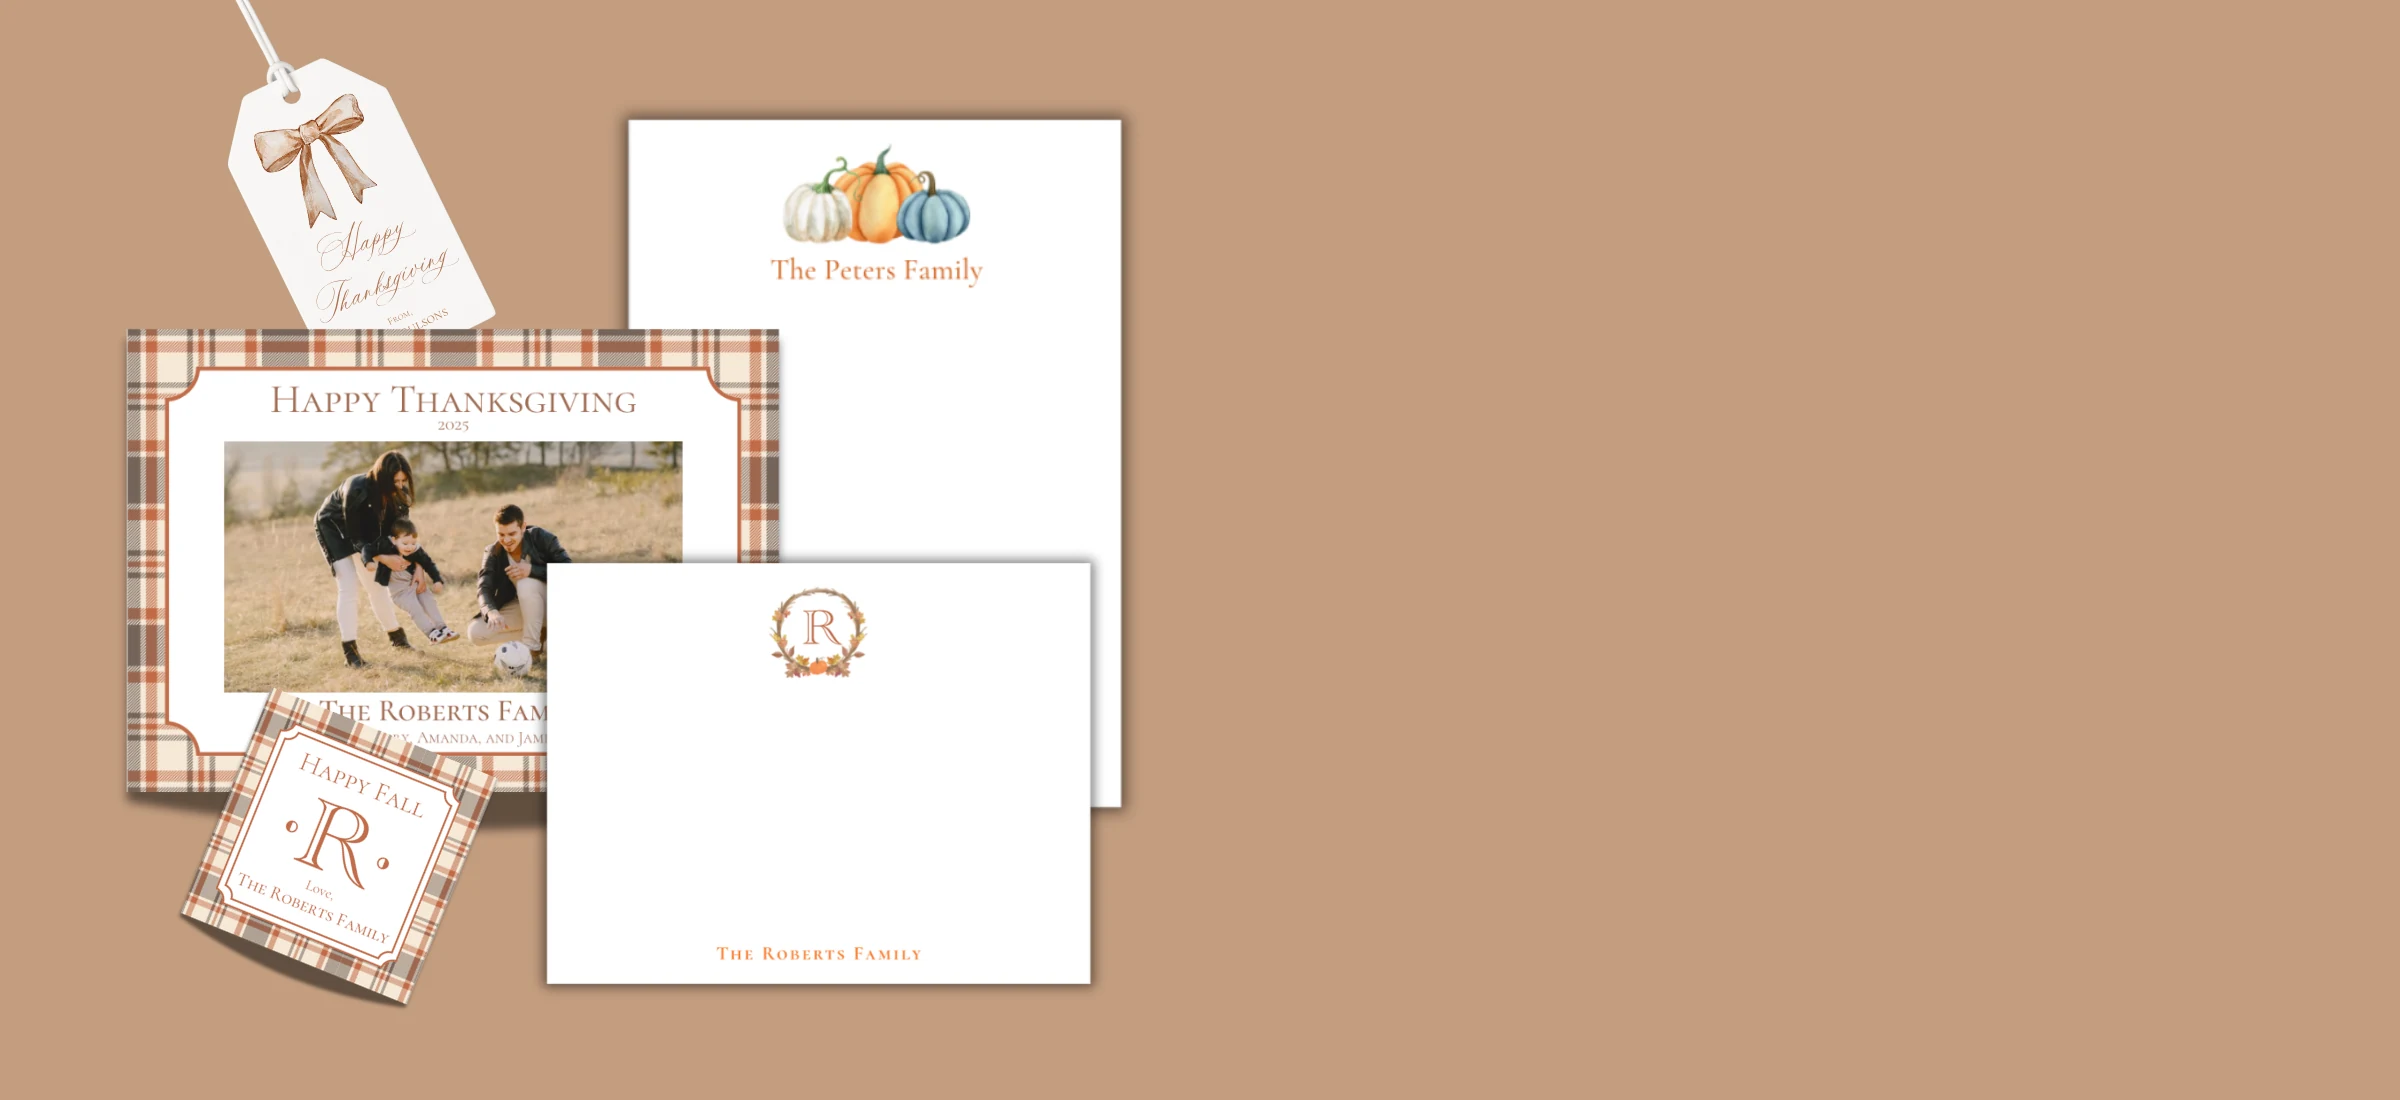
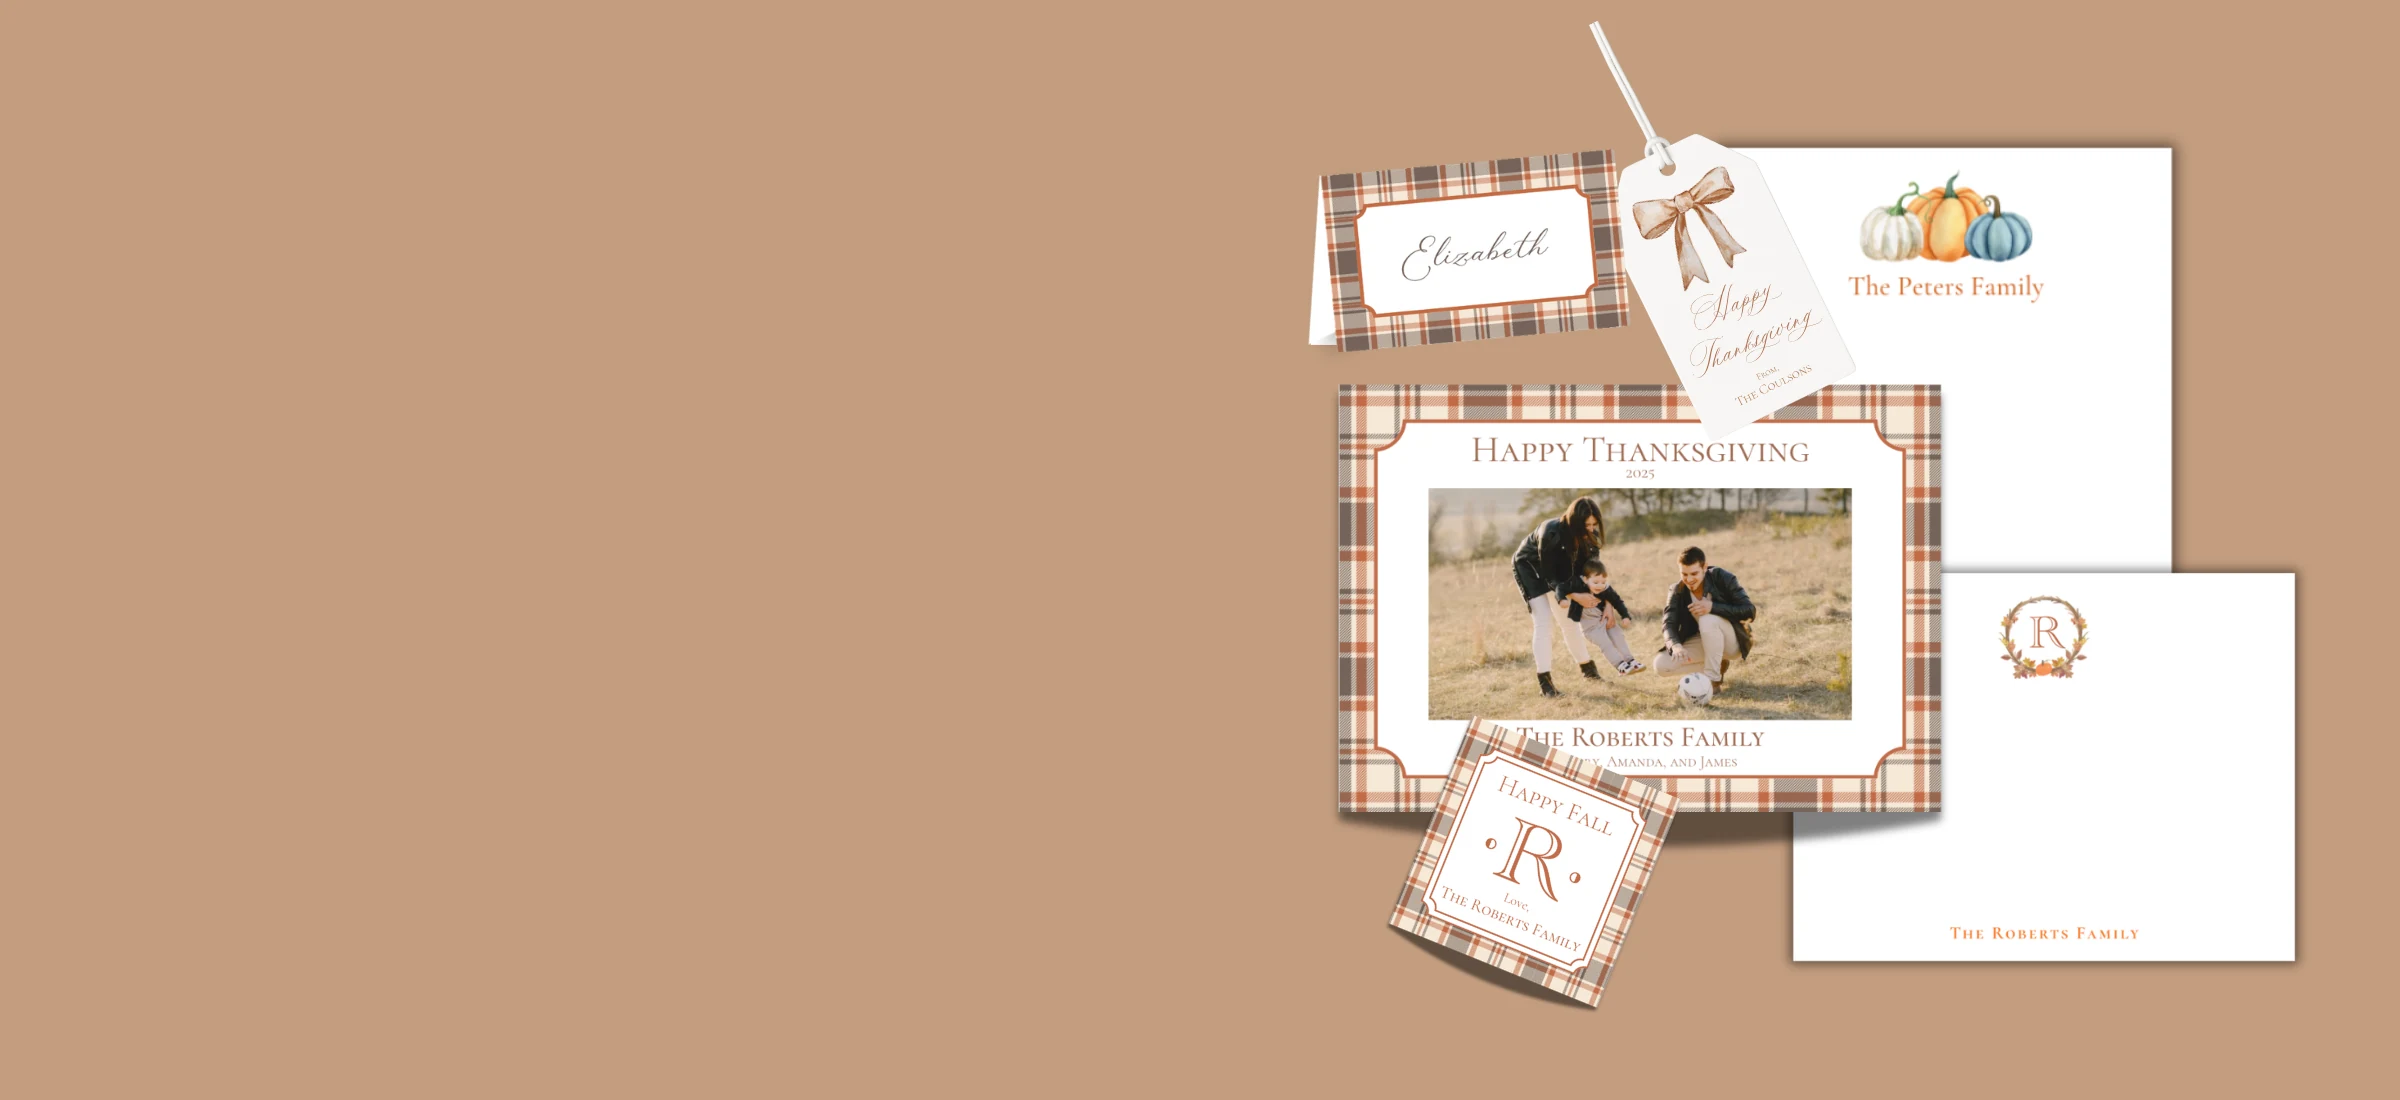
Hero: updated Christmas and Fall images (products right, tagline left) with seasonal lines
Claude-Session: https://claude.ai/code/session_01CfVqtoW5zsALxSaAEsBk63

diff --git a/app/components/HeroSection.tsx b/app/components/HeroSection.tsx
@@ -37,6 +37,8 @@ type Slide = {
   desktopPosition?: string;
   /** Button under the tagline, e.g. "Shop Christmas / Holiday". */
   cta?: {label: string; href: string};
+  /** Short seasonal line above the button. */
+  subline?: string;
 };
 const AUTUMN = `${CDN}/Winsome_Banner_01_13972622-0426-4773-b922-928098ab2bda.png?width=2400`;
 const SLIDES: Slide[] = [
@@ -48,23 +50,23 @@ const SLIDES: Slide[] = [
     desktopOnly: true,
     desktopLight: true,
     // Keep the products (right side) when narrower screens trim the image.
-    desktopPosition: "right center",
+    desktopPosition: "70% center",
+    subline: "Make the season beautifully personal.",
     cta: {label: "Shop Christmas / Holiday", href: "/collections/christmas-holiday"},
     side: "left",
   },
   {
-    // Fall plaid on tan (Sydney, Nov 2026); products on the left, so the
-    // tagline sits on the right on computers. Phones show the earlier autumn
-    // photo.
+    // Fall plaid on tan (Sydney, Nov 2026); products on the right, tagline on
+    // the left. Phones show the earlier autumn photo for now.
     image: AUTUMN,
     alt: "Personalized autumn plaid Thanksgiving cards and fall stationery on a writing desk",
     desktopImage: fallDesktop,
     desktopAlt:
       "Personalized fall plaid Thanksgiving photo card, pumpkin notepad, gift tags and notecards on a tan background",
-    desktopSide: "right",
     desktopNoHaze: true,
-    // Keep the products (left side) when narrower screens trim the image.
-    desktopPosition: "left center",
+    // Keep the products (right side) when narrower screens trim the image.
+    desktopPosition: "70% center",
+    subline: "Gather, give thanks, and make it personal.",
     cta: {label: "Shop Thanksgiving / Fall", href: "/collections/fall-autumn"},
     side: "left",
   },
@@ -194,11 +196,19 @@ export default function HeroSection() {
               <span className="wl-word wl-w3 inline-block">On</span>{" "}
               <span className="wl-word wl-w4 inline-block">Paper.</span>
             </h1>
+            {slide.subline && (
+              <p
+                key={slide.subline}
+                className="wl-sub mt-6 md:mt-7 font-serif italic text-[1.35rem] md:text-[1.6rem] leading-snug text-[#2D2D2D]"
+              >
+                {slide.subline}
+              </p>
+            )}
             {slide.cta && (
               <Link
                 key={slide.cta.href}
                 to={slide.cta.href}
-                className={`wl-cta mt-8 md:mt-10 inline-flex items-center gap-2 px-8 py-3.5 font-sans font-medium text-[13px] tracking-[0.15em] uppercase transition-colors duration-300 bg-[#2D2D2D] text-white hover:bg-[#C9A96E] ${
+                className={`wl-cta ${slide.subline ? "mt-6" : "mt-8 md:mt-10"} inline-flex items-center gap-2 px-8 py-3.5 font-sans font-medium text-[13px] tracking-[0.15em] uppercase transition-colors duration-300 bg-[#2D2D2D] text-white hover:bg-[#C9A96E] ${
                   light ? "md:bg-white md:hover:bg-[#FAF8F5]" : ""
                 }`}
               >
@@ -244,7 +254,7 @@ const HERO_CSS = `
 
 /* Word-by-word entrance — quick sequence, all four words. */
 @keyframes wl-cta-in { from { opacity: 0; transform: translateY(6px); } to { opacity: 1; transform: none; } }
-.wl-cta { animation: wl-cta-in 0.6s ease-out both; }
+.wl-cta, .wl-sub { animation: wl-cta-in 0.6s ease-out both; }
 @keyframes wl-word-in {
   0%   { opacity: 0; transform: translateY(14px); }
   100% { opacity: 1; transform: translateY(0); }
